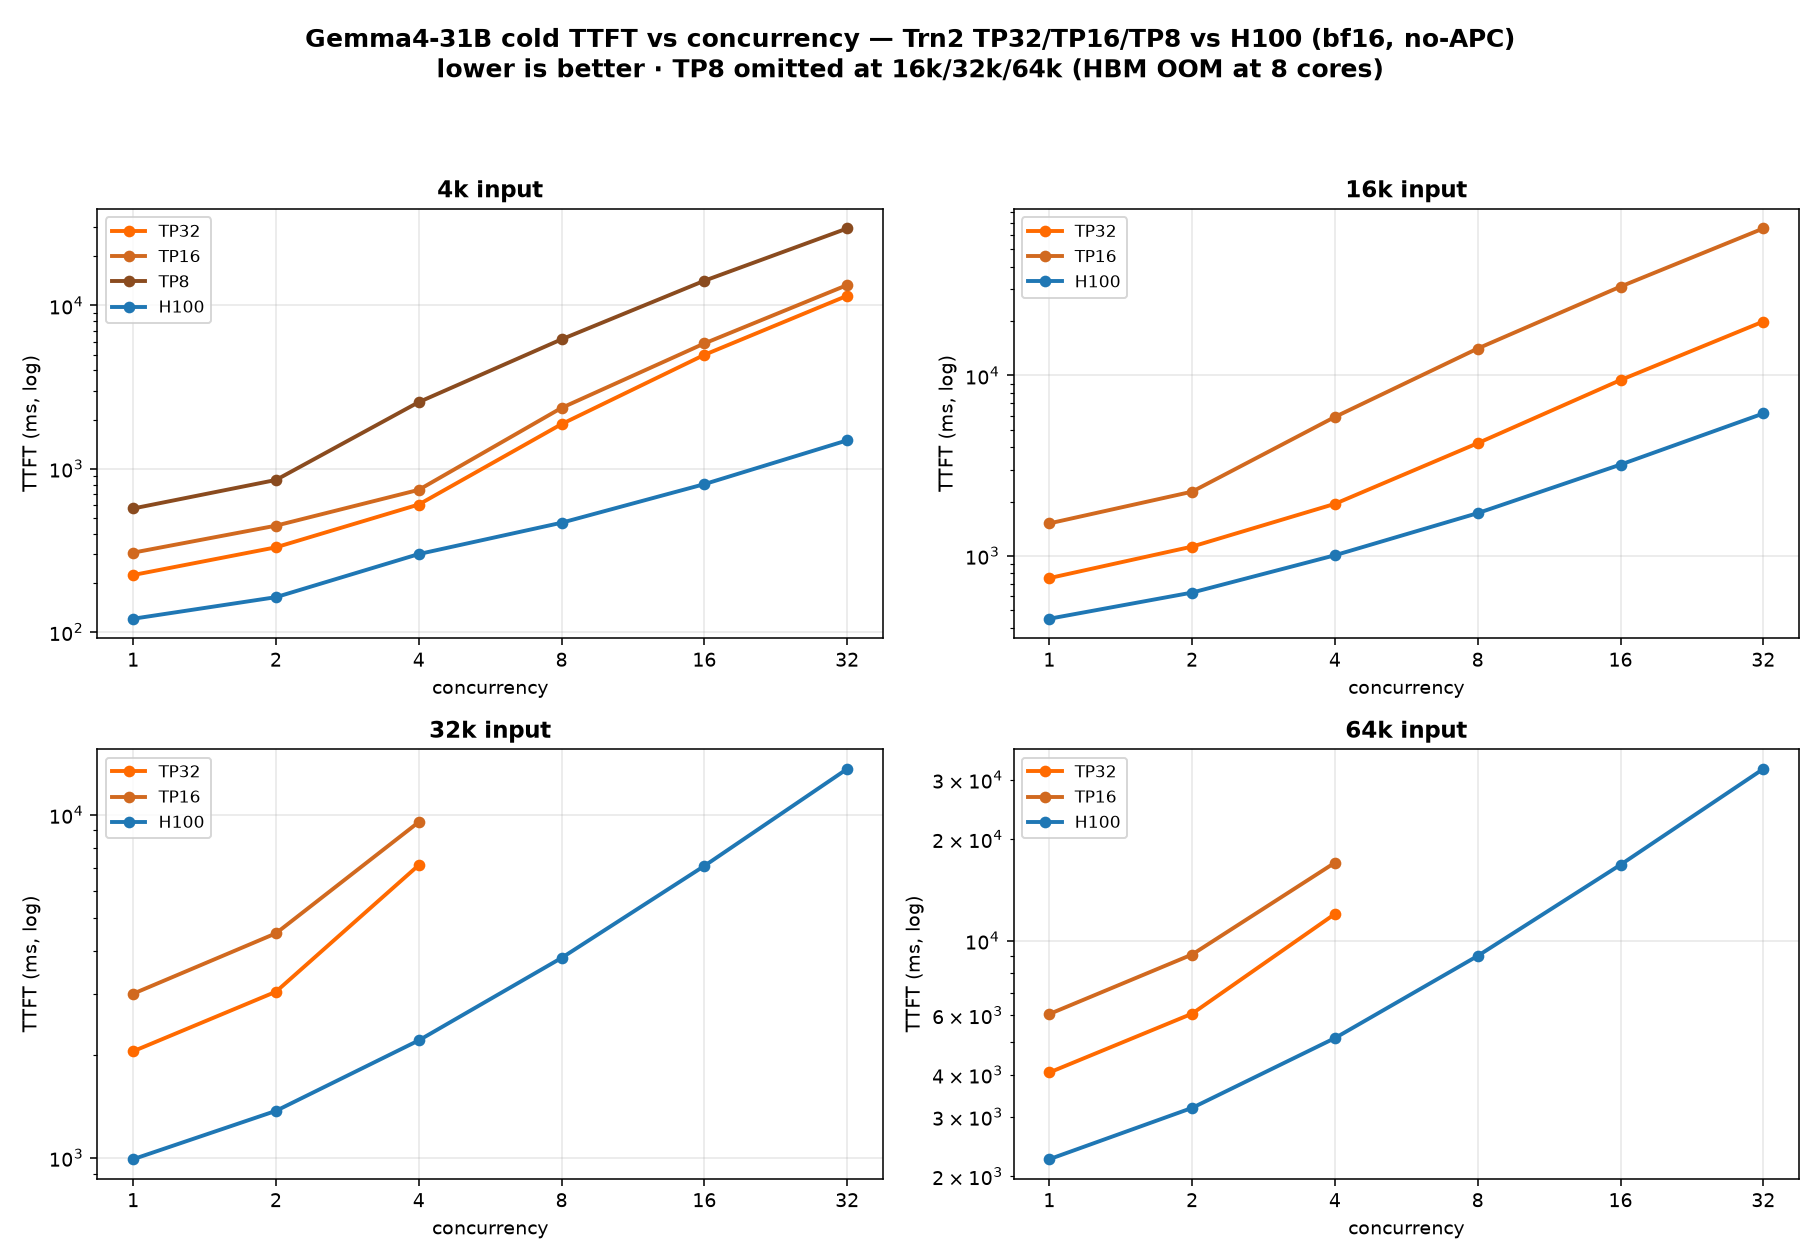
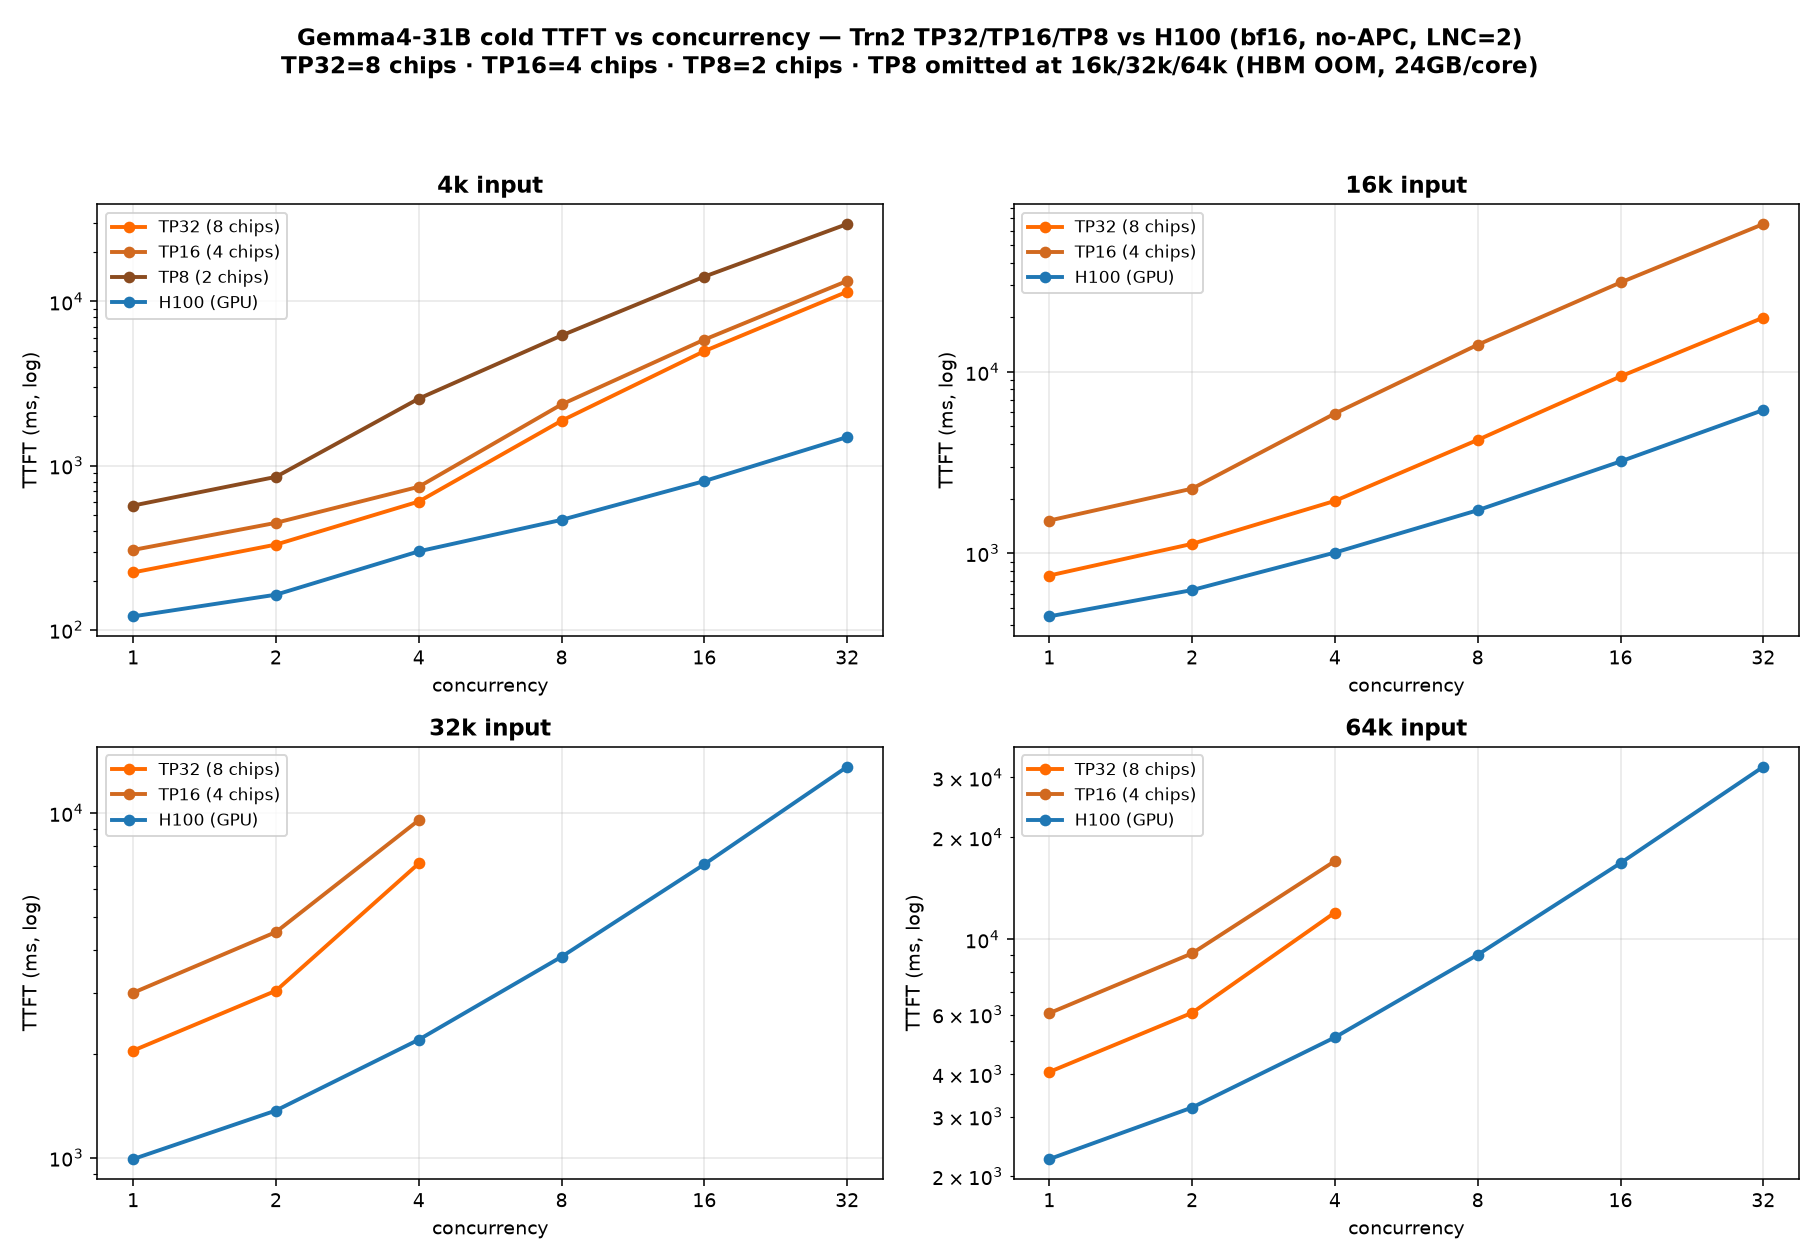
Fix TP chip counts: LNC=2 -> TP32=8 chips, TP16=4, TP8=2 (was wrong)
neuron-ls confirms logical-neuroncore-config=2 on trn2.48xl: 16 chips x 4 logical cores = 64 cores, 96GB/chip = 24GB/core. TP maps 1 rank -> 1 logical core (4/chip), so TP32=8 chips (half the box), TP16=4 chips, TP8=2 chips. Previous text/chart said TP32=16/TP16=8/TP8=4 chips (assumed LNC=1) - off by 2x. Updates README TP section, chart legends (TP32 (8 chips) etc.) + titles (LNC=2, 24GB/core), and make_perf_chart_tp.py docstring. Also clarifies the TP8 OOM is on its 2 chips / 8 cores.

diff --git a/gemma4-31b/vllm-neuron-4k_16k_32k_64k_no_APC/make_perf_chart_tp.py b/gemma4-31b/vllm-neuron-4k_16k_32k_64k_no_APC/make_perf_chart_tp.py
@@ -9,7 +9,9 @@ Trn2 = trn2.48xlarge, bf16 KV, APC OFF, unique random prompt per request (cold),
 - <=8k: single-shot prefill (all TP degrees).
 - 16k: TP32 single-shot; TP16 via segmented (single-shot 16k needs headroom).
 - 32k/64k: segmented + SWA windowed-prior fix.
-- TP8: 4k/8k only — the 66560-capacity (long-context) config HBM-OOMs at 8 cores
+Topology: trn2.48xl with LNC=2 (logical-neuroncore-config=2) -> 4 logical cores/chip, 96GB/chip
+= 24GB/core. TP maps 1 rank -> 1 core, so TP32=8 chips, TP16=4 chips, TP8=2 chips.
+- TP8 (2 chips): 4k/8k only — the 66560-capacity (long-context) config HBM-OOMs at 8 cores
   (NCC_EOOM002: peak 27.45GB > 24GB per-core Trn2 limit). TP8 = short-ctx/density.
 H100 baseline: vendor-typical vLLM serving (no 8k point measured).
 """
@@ -35,6 +37,8 @@ H100 = {"4k": [0.121,0.164,0.301,0.468,0.806,1.494], "8k": None,
         "64k": [2.249,3.192,5.139,9.005,16.773,32.258]}
 
 COLORS = {"TP32": "#ff6a00", "TP16": "#d1691f", "TP8": "#8a4b1f", "H100": "#1f77b4"}
+# LNC=2 on trn2.48xlarge: 4 logical cores/chip, so TP32=8 chips, TP16=4 chips, TP8=2 chips.
+LABELS = {"TP32": "TP32 (8 chips)", "TP16": "TP16 (4 chips)", "TP8": "TP8 (2 chips)", "H100": "H100 (GPU)"}
 SERIES = [("TP32", TP32), ("TP16", TP16), ("TP8", TP8), ("H100", H100)]
 OUT = os.path.join(os.path.dirname(os.path.abspath(__file__)), "assets")
 os.makedirs(OUT, exist_ok=True)
@@ -54,7 +58,7 @@ def chart_conc1():
         vals = [c1(d, s) for s in SIZES]
         xs = [x[i] + offs[name] * w for i in range(len(SIZES)) if vals[i] is not None]
         ys = [v for v in vals if v is not None]
-        bars = ax.bar(xs, ys, w, label=name, color=COLORS[name], zorder=3)
+        bars = ax.bar(xs, ys, w, label=LABELS[name], color=COLORS[name], zorder=3)
         for b, y in zip(bars, ys):
             ax.annotate(f"{y:.2f}", (b.get_x() + b.get_width() / 2, y), textcoords="offset points",
                         xytext=(0, 2), ha="center", fontsize=7, rotation=90)
@@ -69,8 +73,8 @@ def chart_conc1():
     ax.set_xticks(x); ax.set_xticklabels(SIZES)
     ax.set_ylabel("TTFT (s, log)"); ax.set_xlabel("input size")
     ax.set_title("Gemma4-31B cold TTFT — TP scaling vs H100 (conc=1)\n"
-                 "Trn2 bf16, no-APC · TP32 lowest TTFT · TP8 long-context OOMs (24GB/core)",
-                 fontsize=12, fontweight="bold")
+                 "trn2.48xl LNC=2 (4 cores/chip): TP32=8 chips · TP16=4 · TP8=2 · bf16, no-APC · TP8 long-ctx OOMs (24GB/core)",
+                 fontsize=10.5, fontweight="bold")
     ax.grid(True, axis="y", alpha=0.3, zorder=0)
     ax.legend(ncol=4, fontsize=9, loc="upper left")
     fig.tight_layout()
@@ -81,16 +85,16 @@ def chart_conc1():
 def chart_sweep():
     panels = ["4k", "16k", "32k", "64k"]
     fig, axes = plt.subplots(2, 2, figsize=(13, 9))
-    fig.suptitle("Gemma4-31B cold TTFT vs concurrency — Trn2 TP32/TP16/TP8 vs H100 (bf16, no-APC)\n"
-                 "lower is better · TP8 omitted at 16k/32k/64k (HBM OOM at 8 cores)",
-                 fontsize=13, fontweight="bold")
+    fig.suptitle("Gemma4-31B cold TTFT vs concurrency — Trn2 TP32/TP16/TP8 vs H100 (bf16, no-APC, LNC=2)\n"
+                 "TP32=8 chips · TP16=4 chips · TP8=2 chips · TP8 omitted at 16k/32k/64k (HBM OOM, 24GB/core)",
+                 fontsize=12, fontweight="bold")
     for ax, s in zip(axes.flat, panels):
         for name, d in SERIES:
             v = d.get(s)
             if not v:
                 continue
             conc = CONC if len(v) == 6 else CL
-            ax.plot(conc, [x * 1000 for x in v], "-o", color=COLORS[name], lw=2, ms=5, label=name, zorder=3)
+            ax.plot(conc, [x * 1000 for x in v], "-o", color=COLORS[name], lw=2, ms=5, label=LABELS[name], zorder=3)
         ax.set_xscale("log", base=2); ax.set_yscale("log")
         ax.set_xticks(CONC); ax.set_xticklabels(CONC)
         ax.set_title(f"{s} input", fontsize=12, fontweight="bold")

diff --git a/gemma4-31b/vllm-neuron-4k_16k_32k_64k_no_APC/README.md b/gemma4-31b/vllm-neuron-4k_16k_32k_64k_no_APC/README.md
@@ -64,8 +64,10 @@ for concurrent long-context. 32k/64k are the **SWA-windowed** best numbers.)
 
 ## TP scaling — TP32 vs TP16 vs TP8 vs H100 (cold TTFT)
 
-Everything above is **TP=32** (all 16 chips / 32 cores) — the lowest-TTFT config. Here is how cold
-TTFT scales as you shard across fewer cores (TP16 = 8 chips, TP8 = 4 chips), against an H100 baseline.
+Everything above is **TP=32** — the lowest-TTFT config. On trn2.48xlarge with **LNC=2**
+(`logical-neuroncore-config: 2`): 16 chips × 4 logical cores = 64 cores, 96 GB/chip = **24 GB per
+core**. TP maps 1 rank → 1 logical core (4 per chip), so **TP=32 = 8 chips**, **TP=16 = 4 chips**,
+**TP=8 = 2 chips**. Here is how cold TTFT scales as you shard across fewer chips, vs an H100 baseline.
 
 ![TP scaling at conc=1](./assets/ttft_tp_scaling_conc1.png)
 
@@ -85,10 +87,10 @@ TTFT scales as you shard across fewer cores (TP16 = 8 chips, TP8 = 4 chips), aga
 **What the TP sweep shows:**
 - **TP32 has the lowest TTFT** — it shards the prefill matmuls across the most cores, so first-token
   latency is best. TP16 is ~40–50% higher; TP8 is ~2.5–3× higher.
-- **TP8 cannot serve long context in bf16.** The 64k-capacity config **HBM-OOMs** at 8 cores
-  (`NCC_EOOM002`: peak **27.45 GB > 24 GB** per-core Trn2 limit). TP8 is a **short-context /
-  high-density** config (4× replicas per box, ~3–4× faster decode) — not a long-context or
-  lowest-TTFT one.
+- **TP8 cannot serve long context in bf16.** The 64k-capacity config **HBM-OOMs** on its 8 cores /
+  **2 chips** (`NCC_EOOM002`: peak **27.45 GB > 24 GB** per-core Trn2 limit). TP8 is a
+  **short-context / high-density** config (2 chips ⇒ up to **8 replicas per box**, ~3–4× faster
+  decode) — not a long-context or lowest-TTFT one.
 - **OOM reconciliation:** a "seg=8192 OOMs at ~30 GB > 24 GB" observation is a **low-TP** OOM, *not*
   TP32. At TP32 the same seg=8192 config shards 32 ways and fits (that's the measured 2.05 s at 32k).
   Fewer cores → more per-core HBM → OOM. Same config, different TP → different outcome.
